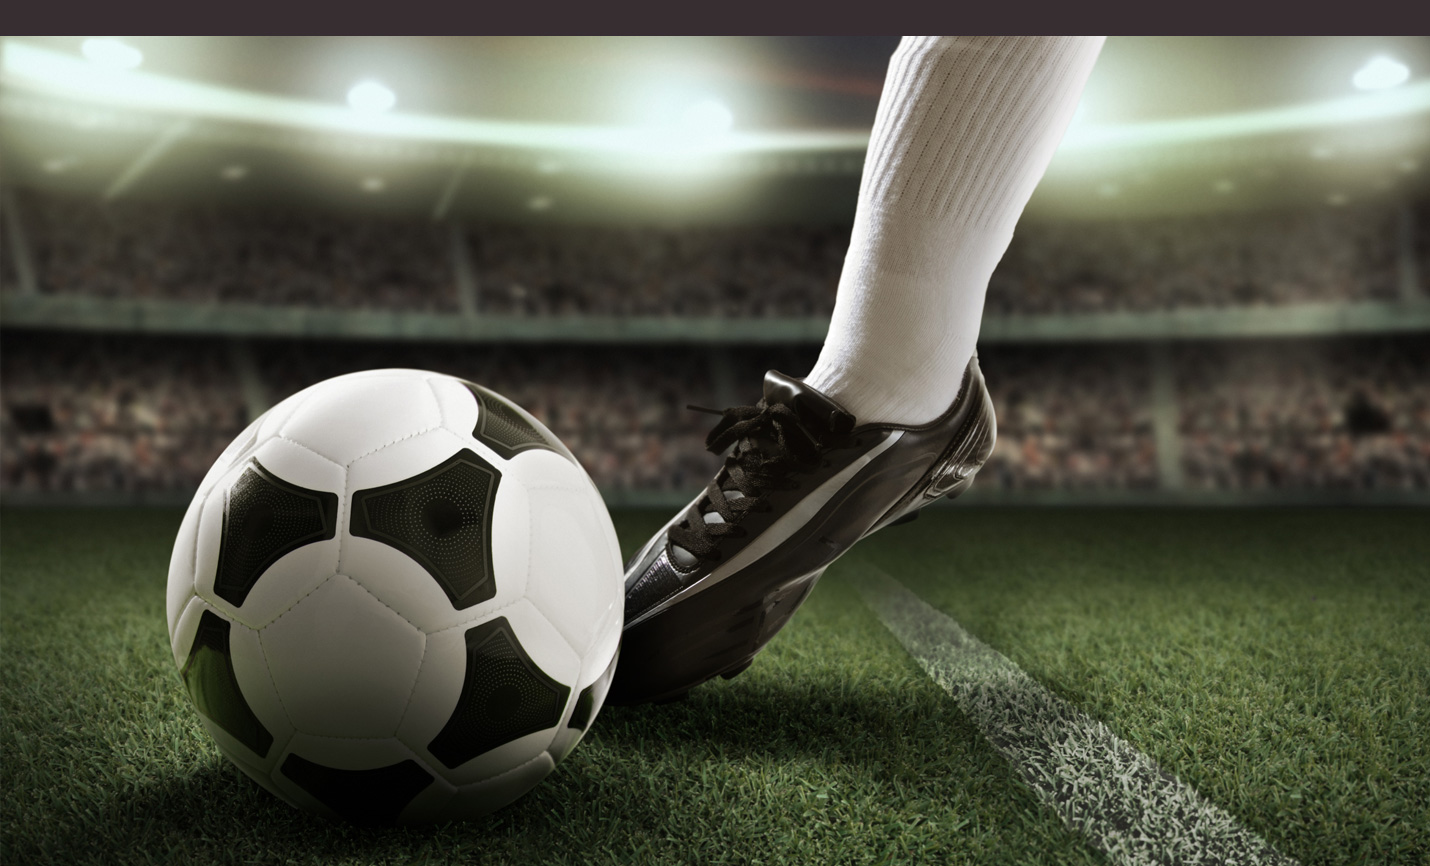
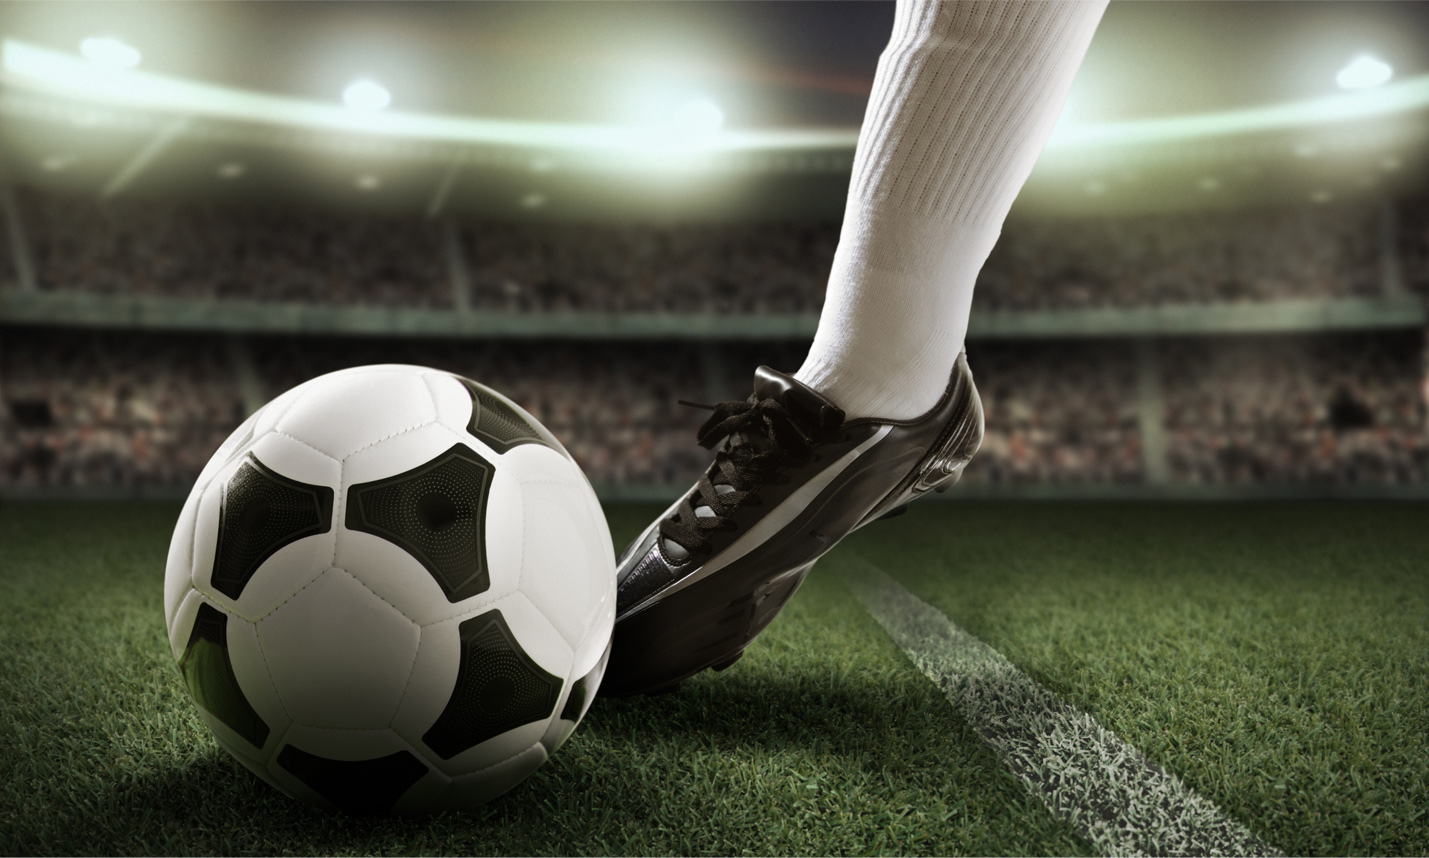
V26/09/2013

diff --git a/Symfony/web/bundles/lotofootv2/css/lotofoot.css b/Symfony/web/bundles/lotofootv2/css/lotofoot.css
@@ -18,7 +18,7 @@
 	width: 980px;
 	margin-left: auto;
 	margin-right: auto;
-	padding: 0px 20px 0px 20px;	
+	padding: 5px 20px 0px 20px;	
 	margin-top: 0;
 }
 
@@ -30,7 +30,7 @@ body{
 	background-position: center 0;
 	font-family: "Open Sans", "Trebuchet MS", arial, verdana, sans-serif;
 	font-size: 14px;
-	/*margin: 0;*/
+	margin: 0;
 	background-attachment: fixed;
 }
 .bg-transparent{
@@ -38,6 +38,7 @@ body{
     filter:alpha(opacity=85); 
     background: rgb(255,255,255);
     box-shadow: 6px 0px 15px black;  
+    min-height: 683px;
 }
 
 /*Login*/
@@ -129,7 +130,7 @@ input{
 	display: inline-block;
 	margin-left: 4px;
 	margin-right: 0;
-	margin-top: 1px;
+	margin-top: 0;
 	width: 85px;
 	height: 90px;
 	
@@ -143,7 +144,7 @@ input{
 	vertical-align: top;
 	margin-top: 0px;
 	margin-right: 0;
-	margin-left: -4px;
+	margin-left: -5px;
 	list-style: none;
 	padding: 0;
 }
@@ -205,7 +206,7 @@ input{
 	background-image: url(../img/menu-3-championsleague.png);
 	background-repeat: no-repeat;
 	float:left;
-	width: 174px;
+	width: 173px;
 	height: 38px;
 	margin-top: 2px;
 	list-style: none;
@@ -215,7 +216,7 @@ input{
 	background-image: url(../img/menu-3-championsleague-hoover.png);
 	background-repeat: no-repeat;
 	float:left;
-	width: 174px;
+	width: 173px;
 	height: 38px;
 	margin-top: 2px;
 	list-style: none;
@@ -223,9 +224,10 @@ input{
 }
 
 .menu-4-calendar{
+	background-image: url(../img/menu-4-calendrier.png);
 	background-repeat: no-repeat;
 	float:left;
-	width: 132px;
+	width: 131px;
 	height: 38px;
 	margin-top: 2px;
 	list-style: none;
@@ -235,7 +237,7 @@ input{
 	background-image: url(../img/menu-4-calendrier-hoover.png);
 	background-repeat: no-repeat;
 	float:left;
-	width: 132px;
+	width: 131px;
 	height: 38px;
 	margin-top: 2px;
 	list-style: none;
